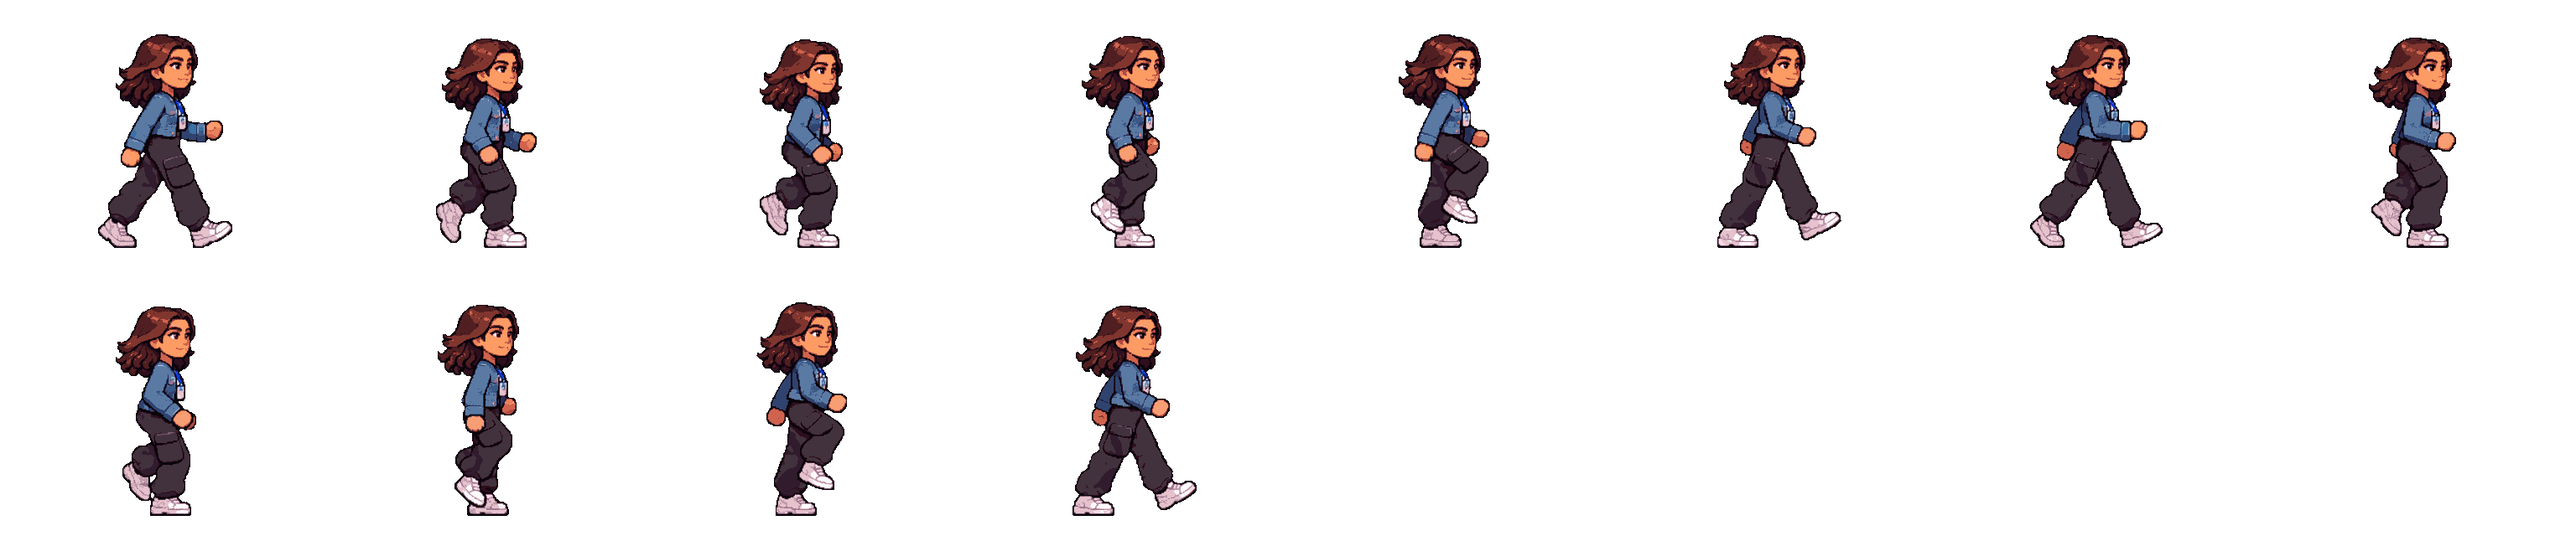
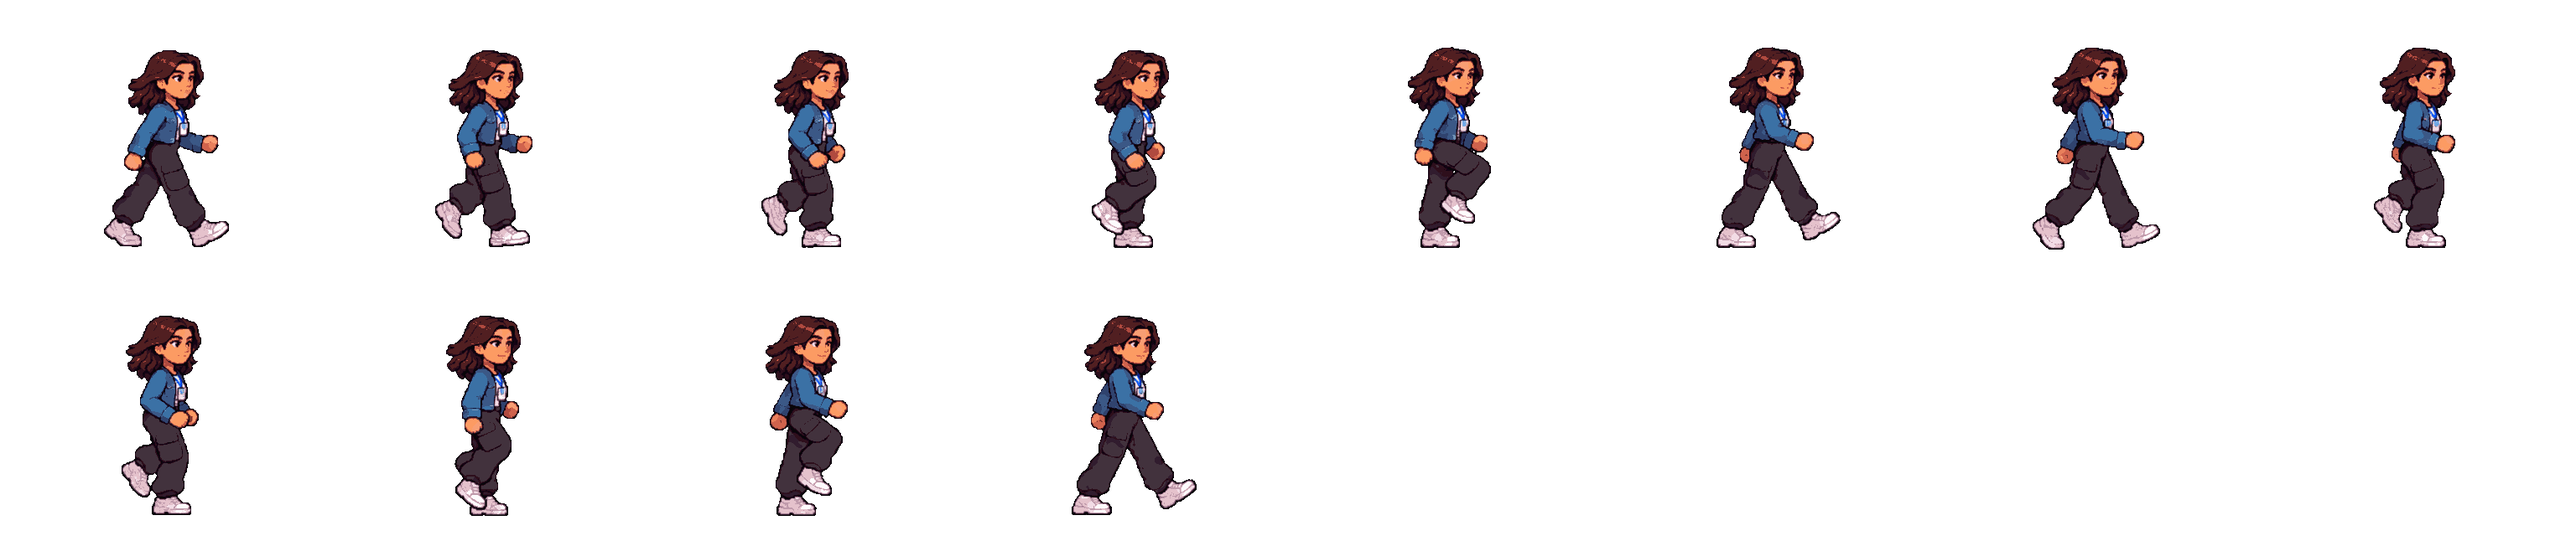
Zee walk and run redrawn in the idle's style (same head, build, line weight) with the same cycles, sized to match the idle in every view

diff --git a/src/main.js b/src/main.js
@@ -1,14 +1,14 @@
 // Game shell: loads Zee, runs the loop, draws the placeholder office + HUD, wires pause / touch UI.
-import { CONFIG } from './config.js?v=202611271809';
-import { loadCharacter, VERSION, LOOK, setLight } from './assets.js?v=202611271809';
-import { Input } from './input.js?v=202611271809';
-import { Zee } from './zee.js?v=202611271809';
-import { Game } from './game.js?v=202611271809';
-import { ENEMY_IDS } from './enemy.js?v=202611271809';
-import { drawHud as drawArcadeHud } from './hud.js?v=202611271809';
-import { Level, qualityDepartment } from './level.js?v=202611271809';
-import { Camera } from './camera.js?v=202611271809';
-import { unlock } from './sfx.js?v=202611271809';
+import { CONFIG } from './config.js?v=202611271849';
+import { loadCharacter, VERSION, LOOK, setLight } from './assets.js?v=202611271849';
+import { Input } from './input.js?v=202611271849';
+import { Zee } from './zee.js?v=202611271849';
+import { Game } from './game.js?v=202611271849';
+import { ENEMY_IDS } from './enemy.js?v=202611271849';
+import { drawHud as drawArcadeHud } from './hud.js?v=202611271849';
+import { Level, qualityDepartment } from './level.js?v=202611271849';
+import { Camera } from './camera.js?v=202611271849';
+import { unlock } from './sfx.js?v=202611271849';
 
 const { w: W, h: H } = CONFIG.view;
 const canvas = document.getElementById('game');

diff --git a/src/level.js b/src/level.js
@@ -20,8 +20,8 @@
 //   light: { rim, rimAlpha, rimPx, lightX, lightY, wash, washAlpha, feet } = how Zee and the enemies are lit in this room
 //   (rim / wash are [r,g,b]); the game eases from one room's light to the next (see setLight in assets.js).
 //   doorRight is the door to the NEXT room: while it is locked the player cannot pass it; no door (or unlocked) = open.
-import { CONFIG } from './config.js?v=202611271809';
-import { VERSION } from './assets.js?v=202611271809';
+import { CONFIG } from './config.js?v=202611271849';
+import { VERSION } from './assets.js?v=202611271849';
 
 const C = CONFIG.camera, F = CONFIG.floor;
 export const LAYER_H = 507;                       // layer height in pixels (the view shows 506.25)

diff --git a/src/game.js b/src/game.js
@@ -1,9 +1,9 @@
 // Game world: Zee + enemies, combat resolution, projectiles and all the "juice" (hit flash, sparks, shake, hit-stop, sound).
-import { CONFIG } from './config.js?v=202611271809';
-import { Enemy } from './enemy.js?v=202611271809';
-import { SOFT } from './zee.js?v=202611271809';
-import { sfx } from './sfx.js?v=202611271809';
-import { drawAnim } from './assets.js?v=202611271809';
+import { CONFIG } from './config.js?v=202611271849';
+import { Enemy } from './enemy.js?v=202611271849';
+import { SOFT } from './zee.js?v=202611271849';
+import { sfx } from './sfx.js?v=202611271849';
+import { drawAnim } from './assets.js?v=202611271849';
 
 const E = CONFIG.enemy;
 

diff --git a/src/enemy.js b/src/enemy.js
@@ -1,8 +1,8 @@
 // Enemy: a fighter with a small brain. It lines up with Zee, flanks, chains combos, sidesteps her swings, punishes her recovery,
 // throws call-centre headsets, and (navy + sporty, the "heavies") grabs and throws her.
 // Art comes from assets/characters/<id>/ ; every enemy shares this one brain.
-import { CONFIG } from './config.js?v=202611271809';
-import { frameAt, drawAnim, drawShadow, LOOK } from './assets.js?v=202611271809';
+import { CONFIG } from './config.js?v=202611271849';
+import { frameAt, drawAnim, drawShadow, LOOK } from './assets.js?v=202611271849';
 
 const E = CONFIG.enemy;
 const rnd = (a, b) => a + Math.random() * (b - a);

diff --git a/src/hud.js b/src/hud.js
@@ -1,8 +1,8 @@
 // Arcade HUD (early-2000s style): angled panels with white outlines, glossy bars, bold italic type.
 // Built from separate pieces drawn in game units, so it scales with the canvas at any resolution.
 // Top-left: portrait + HP bar + SP meter. Bottom-left: KO counter. All values come from the live game state.
-import { CONFIG } from './config.js?v=202611271809';
-import { VERSION } from './assets.js?v=202611271809';
+import { CONFIG } from './config.js?v=202611271849';
+import { VERSION } from './assets.js?v=202611271849';
 
 const portrait = new Image();
 portrait.src = 'assets/ui/zee_portrait.png?v=' + VERSION;

diff --git a/src/zee.js b/src/zee.js
@@ -1,7 +1,7 @@
 // Zee: the player character. A small state machine driven by input actions.
 // Movement, combat timing, and animation selection live here; art comes from the manifest (assets.js).
-import { CONFIG } from './config.js?v=202611271809';
-import { frameAt, drawAnim, drawShadow, LOOK } from './assets.js?v=202611271809';
+import { CONFIG } from './config.js?v=202611271849';
+import { frameAt, drawAnim, drawShadow, LOOK } from './assets.js?v=202611271849';
 
 const C = CONFIG.zee;
 // Front and back sheets are drawn as seen by the camera, so they are never mirrored (her badge and hand stay on the correct side).

diff --git a/src/camera.js b/src/camera.js
@@ -1,7 +1,7 @@
 // The world camera. The world is drawn through a zoomed-out camera (CONFIG.camera.zoom, about 0.71): 900 x 506 world units
 // are visible and rendered into the 640 x 360 screen. The camera follows Zee horizontally (with a little look-ahead in the
 // direction she faces) and is clamped to the level. It never scrolls vertically: the world is exactly one screen tall.
-import { CONFIG } from './config.js?v=202611271809';
+import { CONFIG } from './config.js?v=202611271849';
 
 export class Camera {
   constructor() { this.x = 0; this.px = 0; this.gx = 0; this.look = 0; this.ready = false; }

diff --git a/src/assets.js b/src/assets.js
@@ -1,6 +1,6 @@
 // Loads a character's manifest + strips and turns them into ready-to-play animation objects.
 // To swap art, replace the PNG strips / manifest in assets/characters/<name>/ - no code changes needed.
-import { CONFIG } from './config.js?v=202611271809';
+import { CONFIG } from './config.js?v=202611271849';
 
 // Release stamp, taken from this module's own URL (?v=...): every release uses new URLs so browsers never serve stale files.
 export const VERSION = new URL(import.meta.url).searchParams.get('v') || 'dev';

diff --git a/index.html b/index.html
@@ -93,7 +93,7 @@
 <div id="rotate"><div><h2>Rotate your phone</h2><p style="color:var(--mute)">This game plays in landscape.</p></div></div>
 <div id="loading"><div><div class="lt">CALL TERMINATED</div><div class="ls">is loading...</div></div></div>
 
-<script type="module" src="src/main.js?v=202611271809"></script>
+<script type="module" src="src/main.js?v=202611271849"></script>
 </body>
 </html>
 

diff --git a/src/input.js b/src/input.js
@@ -1,6 +1,6 @@
 // Unified input: keyboard on PC/laptop, floating joystick + buttons on touch devices.
 // The game only reads: input.axis (x,y in -1..1), input.run, and input.consume() (one-shot actions).
-import { CONFIG } from './config.js?v=202611271809';
+import { CONFIG } from './config.js?v=202611271849';
 
 export class Input {
   constructor(root = document) {

diff --git a/HANDOFF.md b/HANDOFF.md
@@ -73,3 +73,4 @@ Masters: sprites/zee/master/zee_master_front_v1.png, _back_v1.png. All 10 moves 
 - Idle + makeup idle (all views) come from ONE drawing per view: sprites/zee/raw/idlemk_side_v1.png, idlemk_front_v1.png, idlemk_back_v2.png (16 frames: row 1 = idle breathing loop -> anim idle 0-3; rows 2-4 = makeup -> anim idle_makeup 4-15, ending in the idle pose). Same size and look by construction. The separate idle/makeup sheets and makeup-from-idle.ps1 are gone.
 - dodge_front_v2: a real floor somersault toward the camera.
 - Front/back punches use both hands: punch_1 = left jab, punch_2 = right cross, punch_3 = two-fisted double punch (punch_*_front_v2 / _back_v2). Sizes in tools/zee-views.json.
+- Walk + run (all views) redrawn 2026-11-27 in the idle's style (thin lines, same head/shoe size), poses kept from the old sheets: walk_v5, run_v5, walk_front_v2, run_front_v2, walk_back_v2, run_back_v2. Sizes matched to the idle by head size.
